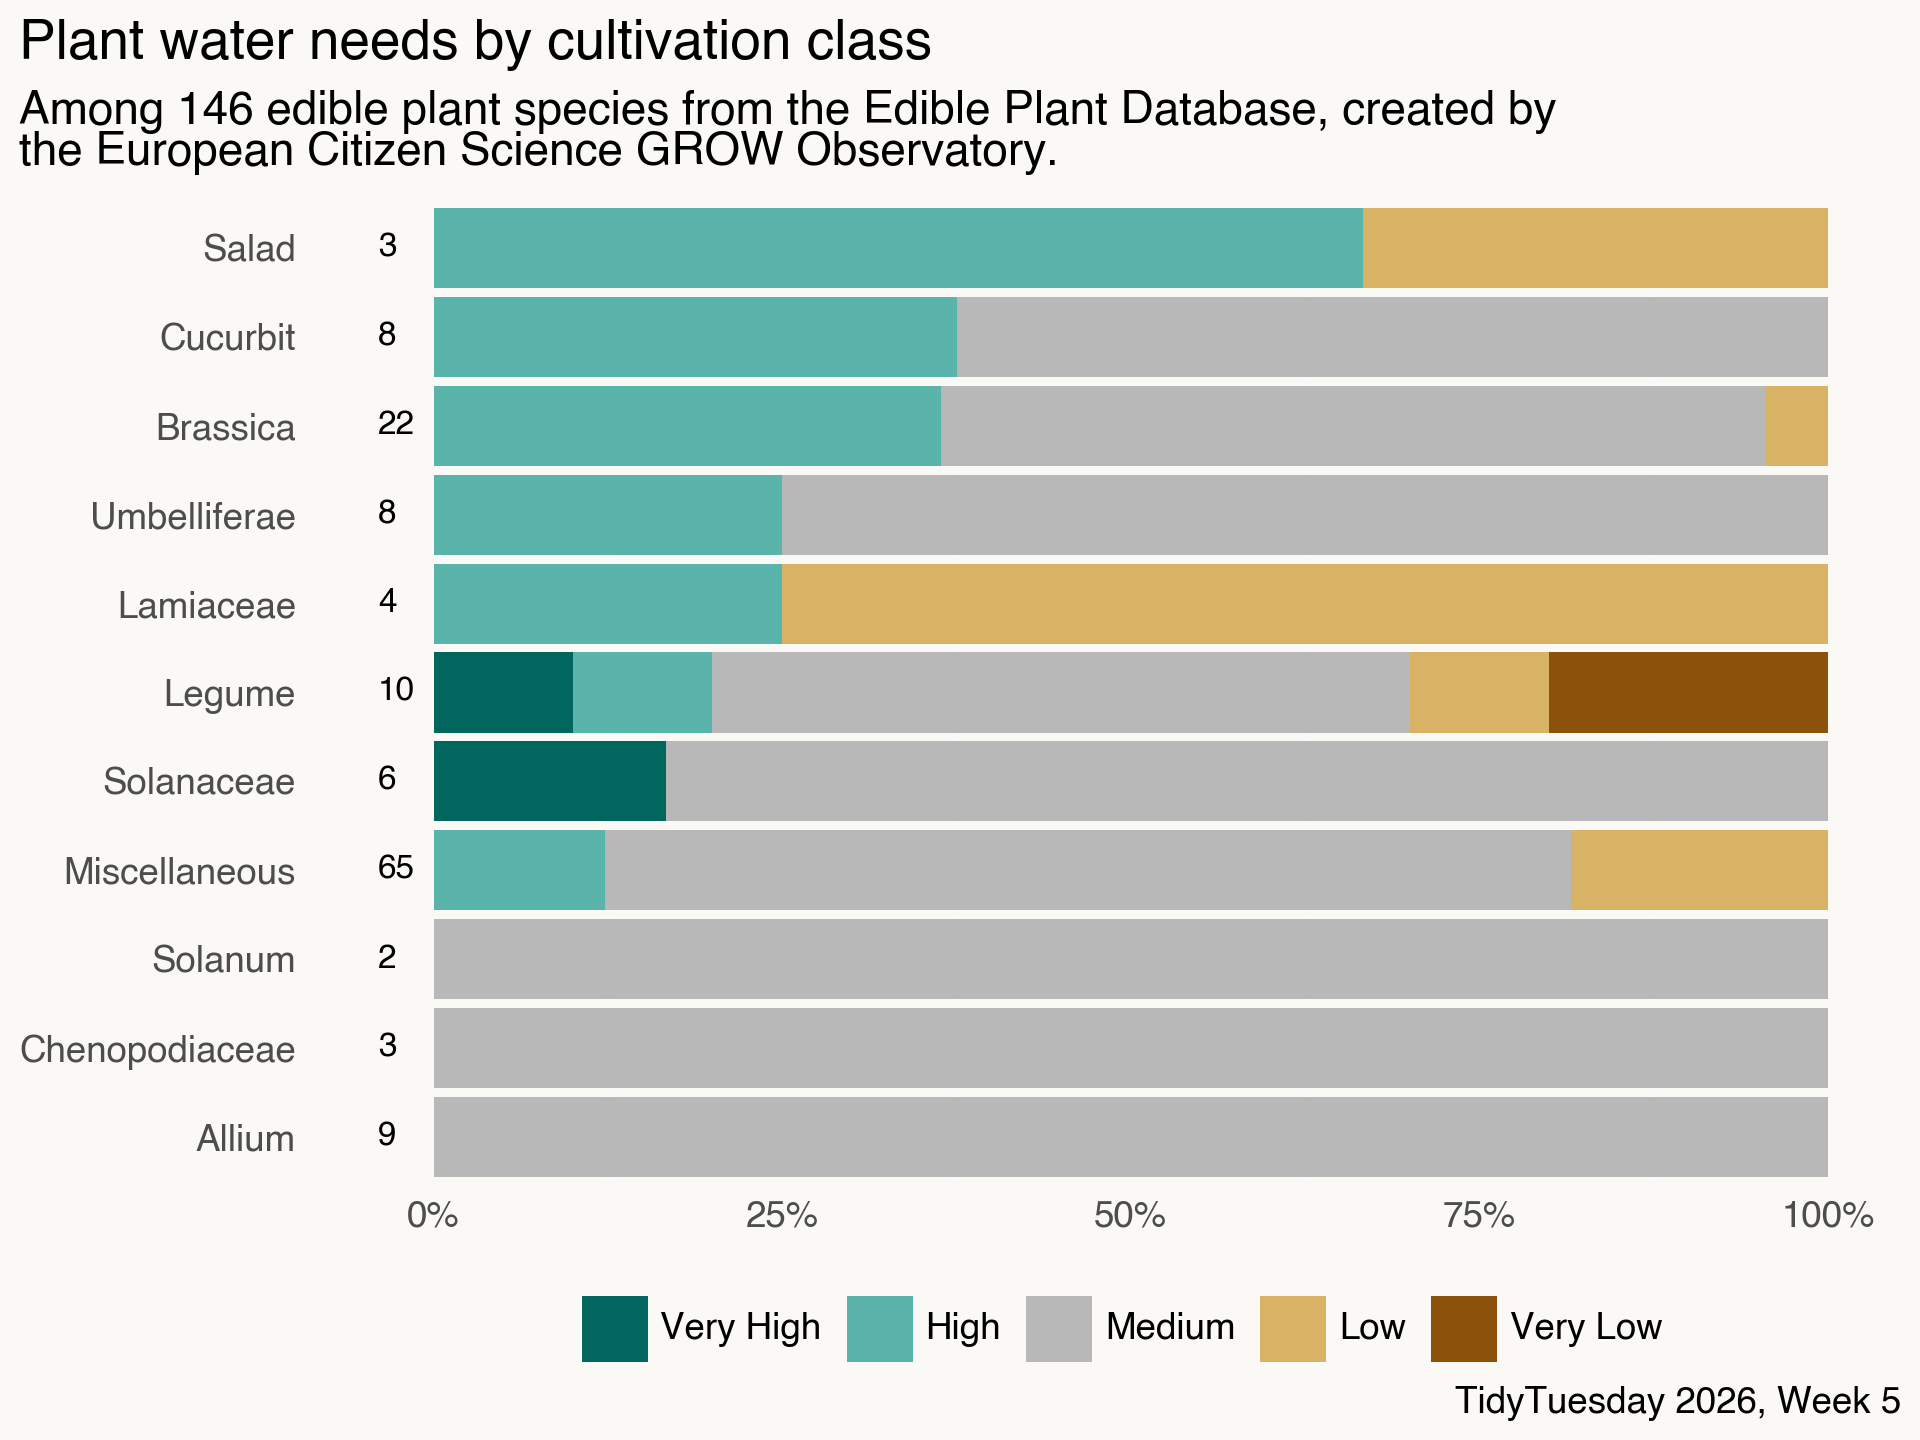
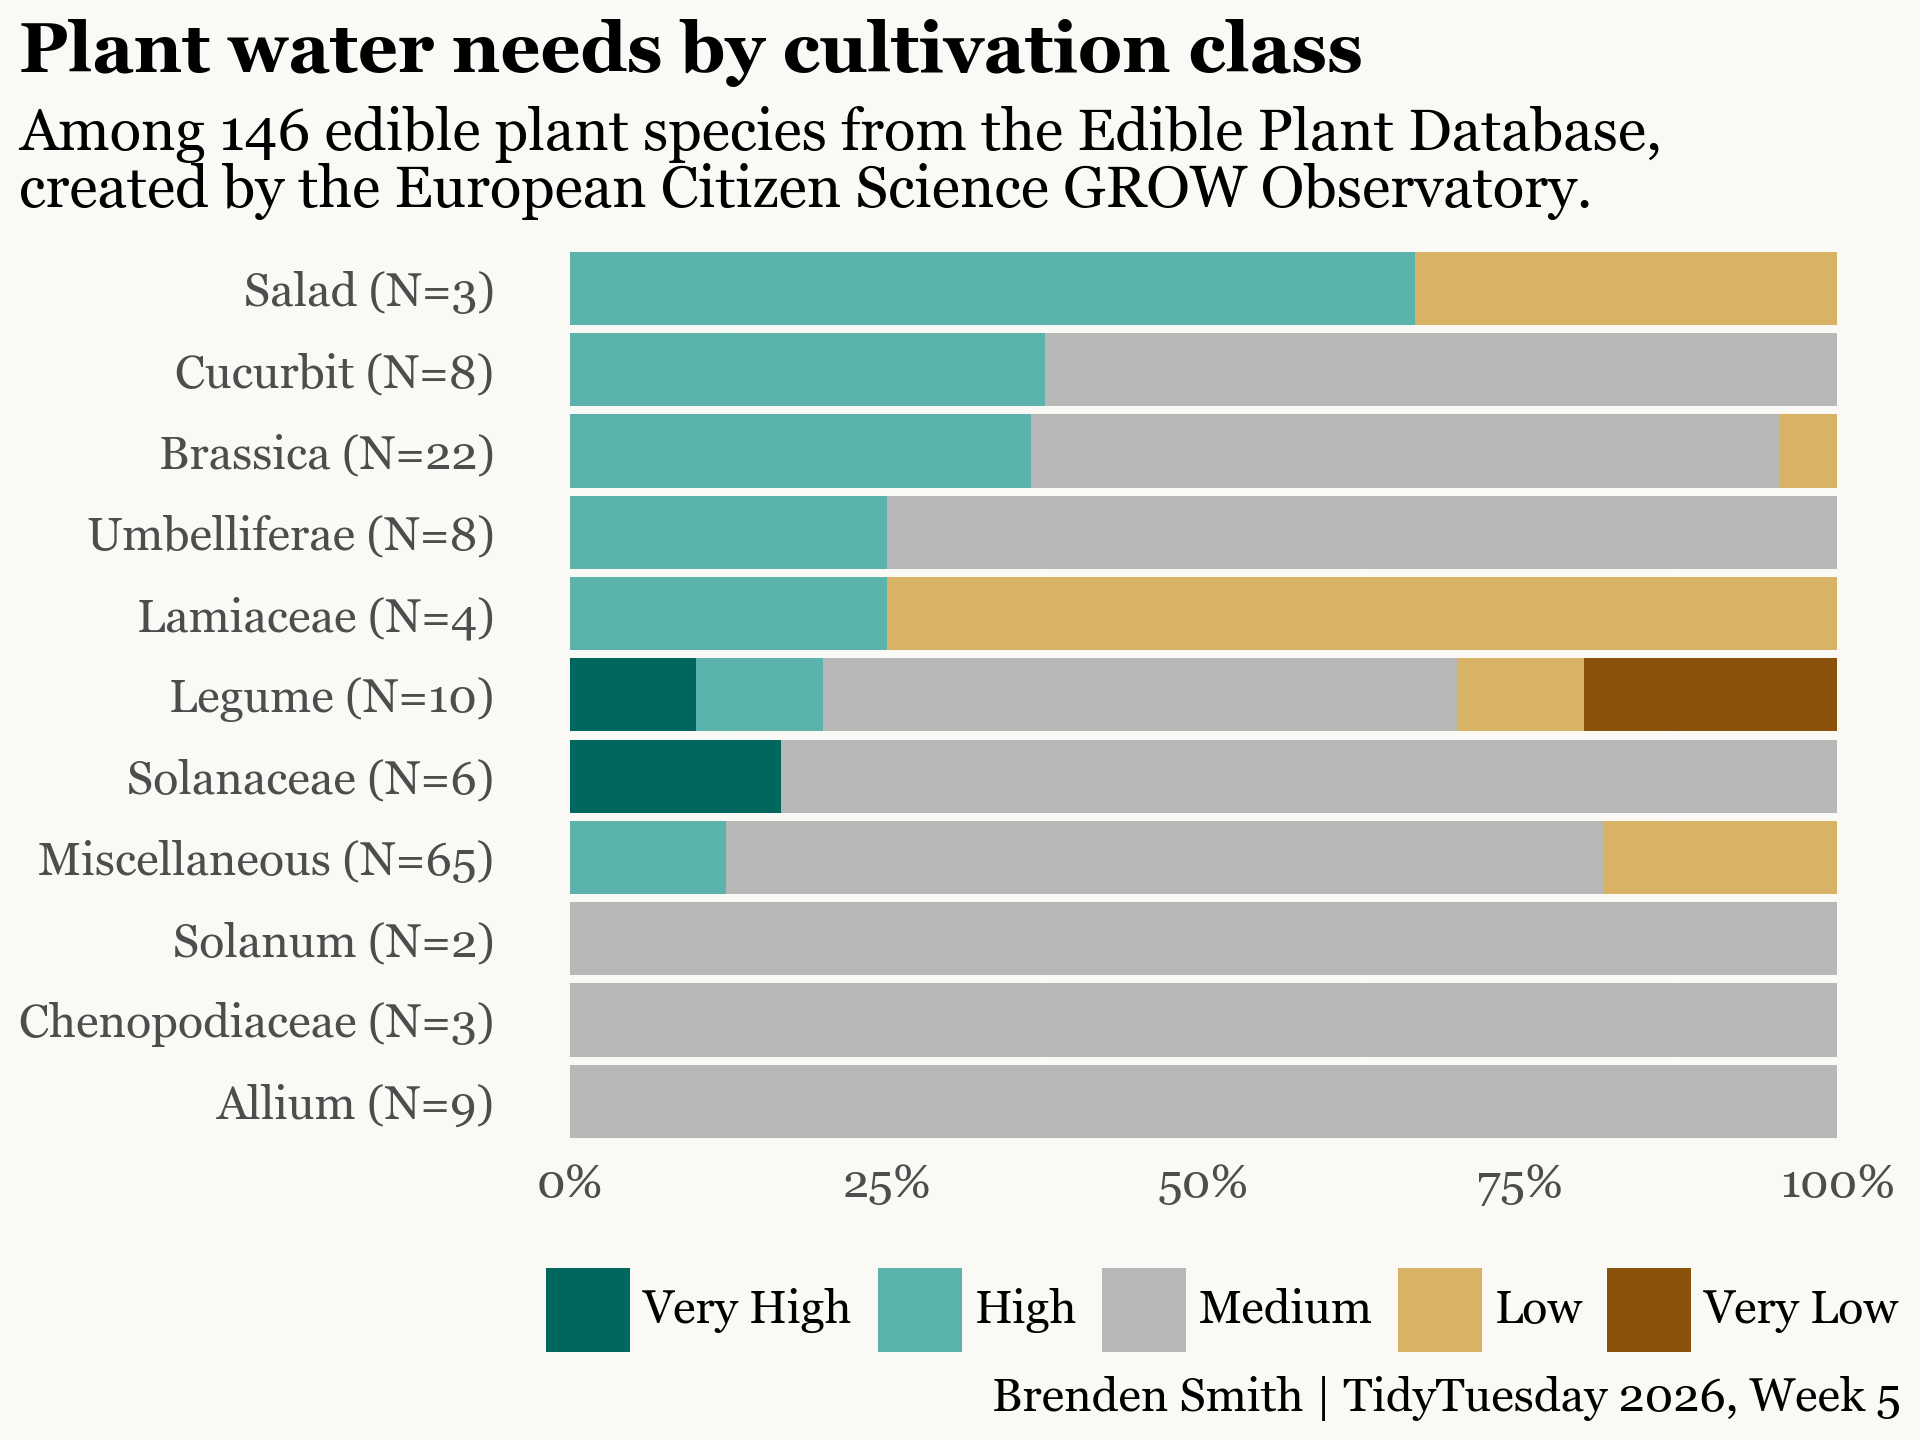
week 5 update, nicer font and labels

Changed region(s): [[0.0, 0.0, 1.0, 0.8438], [0.2812, 0.875, 1.0, 1.0]]

diff --git a/2026/week-5/eda.py b/2026/week-5/eda.py
@@ -2,8 +2,8 @@ import textwrap
 import pandas as pd
 import pydytuesday
 from plotnine import (
-    ggplot, aes, geom_col, geom_text, coord_flip, labs,
-    theme_minimal, theme, element_rect, element_blank,
+    ggplot, aes, geom_col, coord_flip, labs,
+    theme_minimal, theme, element_rect, element_blank, element_text,
     scale_y_continuous, scale_fill_manual, guides, guide_legend
 )
 
@@ -62,15 +62,25 @@ cultivation_order = (
     .tolist()
 )
 
-cult_wat['cultivation'] = pd.Categorical(
-    cult_wat['cultivation'], 
-    categories=cultivation_order, 
-    ordered=True
+# =============================================================================
+# Create new cultivation labels with (N=X) format
+# =============================================================================
+cult_totals['cultivation_label'] = (
+    cult_totals['cultivation'] + ' (N=' + cult_totals['total_n'].astype(str) + ')'
 )
 
-cult_totals['cultivation'] = pd.Categorical(
-    cult_totals['cultivation'],
-    categories=cultivation_order,
+# Create mapping from original cultivation to new label
+label_map = dict(zip(cult_totals['cultivation'], cult_totals['cultivation_label']))
+
+# Apply to cult_wat
+cult_wat['cultivation_label'] = cult_wat['cultivation'].map(label_map)
+
+# Create ordered categories for the new labels (matching original order)
+cultivation_label_order = [label_map[c] for c in cultivation_order]
+
+cult_wat['cultivation_label'] = pd.Categorical(
+    cult_wat['cultivation_label'], 
+    categories=cultivation_label_order, 
     ordered=True
 )
 
@@ -93,15 +103,8 @@ subtitle_text = (
 cult_wat2 = cult_wat[cult_wat["count"] > 0]
 
 fig = (
-    ggplot(cult_wat2, aes(x="cultivation", y="percent", fill="water"))
+    ggplot(cult_wat2, aes(x="cultivation_label", y="percent", fill="water"))
     + geom_col()
-    + geom_text(
-        data=cult_totals,
-        mapping=aes(x="cultivation", y=-4, label="total_n"),
-        inherit_aes=False,
-        size=8,
-        ha="left"
-    )
     + coord_flip()
     + scale_y_continuous(
         labels=lambda l: [f"{int(v)}%" for v in l]
@@ -110,12 +113,14 @@ fig = (
     + guides(fill=guide_legend(reverse=True))
     + labs(
         title="Plant water needs by cultivation class",
-        subtitle=textwrap.fill(subtitle_text, width=75),
-        caption="TidyTuesday 2026, Week 5",
+        subtitle=textwrap.fill(subtitle_text, width=65),
+        caption="Brenden Smith | TidyTuesday 2026, Week 5",
         fill=""
     )
-    + theme_minimal()
+    + theme_minimal(base_size = 14, base_family="Georgia")
     + theme(
+        plot_subtitle = element_text(lineheight = 1),
+        plot_title = element_text(fontweight = "bold"),
         legend_position="bottom",
         axis_title=element_blank(),
         plot_title_position="plot",
